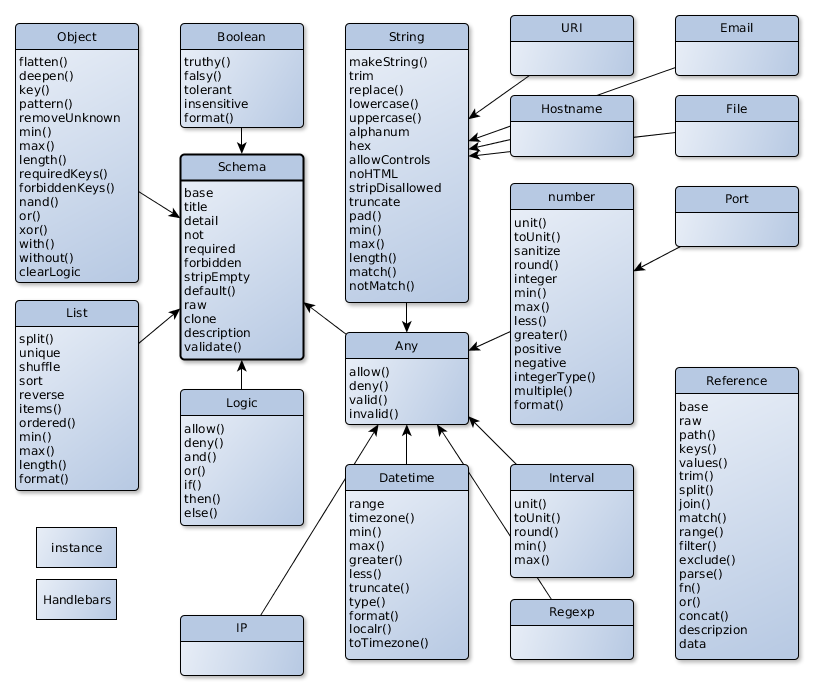
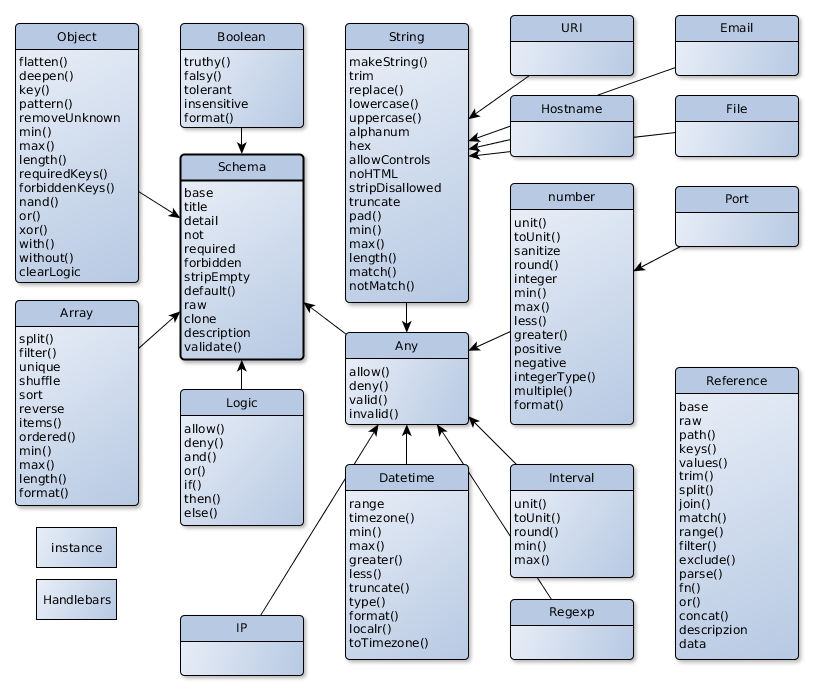
Add array filter method

Changed region(s): [[0.0, 0.4863, 0.1843, 0.7598], [0.0614, 0.4255, 0.1229, 0.4559], [0.1843, 0.4559, 0.215, 0.4863]]

diff --git a/src/type/Array.js b/src/type/Array.js
@@ -16,6 +16,7 @@ class ArraySchema extends Schema {
       this._splitDescriptor,
       this._toArrayDescriptor,
       this._uniqueDescriptor,
+      this._filterDescriptor,
       this._itemsDescriptor,
       this._lengthDescriptor,
       this._sortDescriptor,
@@ -28,6 +29,7 @@ class ArraySchema extends Schema {
       this._toArrayValidator,
       this._typeValidator,
       this._uniqueValidator,
+      this._filterValidator,
       this._itemsValidator,
       this._lengthValidator,
       this._sortValidator,
@@ -142,6 +144,44 @@ as separator.\n`
         }
         c.add(e)
       }
+    }
+    return Promise.resolve()
+  }
+
+  filter(schema?: Schema|bool): this {
+    const set = this._setting
+    if (schema instanceof Schema) set.filter = schema
+    else if (schema === false) delete set.filter
+    else set.filter = true
+    return this
+  }
+
+  _filterDescriptor() {
+    const set = this._setting
+    if (set.filter === true) {
+      return 'Undefined or empty values are removed.\n'
+    }
+    if (set.filter) {
+      return `Elements will be removed if not passing: ${set.filter.description}`
+    }
+    return ''
+  }
+
+  _filterValidator(data: Data): Promise<void> {
+    const check = this._check
+    // check value
+    if (check.filter) {
+      const filter = check.filter === true
+        ? new Schema().stripEmpty().required()
+        : check.filter
+      const p = []
+      for (const v of data.value) {
+        p.push(filter._validate(v).then(() => v).catch(() => null))
+      }
+      return Promise.all(p).then((res) => {
+        data.value = res.filter(e => e)
+        return undefined
+      })
     }
     return Promise.resolve()
   }

diff --git a/test/mocha/type/Array.js b/test/mocha/type/Array.js
@@ -130,9 +130,51 @@ describe('array', () => {
     })
 
     it('should describe', () => {
-      const data = [1, 2, 3, 2]
       const ref = new Reference(true)
       const schema = new MySchema().unique(ref)
+      // use schema
+      expect(helper.description(schema)).to.be.an('string')
+    })
+
+  })
+
+  describe('filter', () => {
+
+    it('should work with empty filter', () => {
+      const data = [1, null, 2, undefined, 3]
+      const schema = new MySchema().filter()
+      // use schema
+      return helper.validateOk(schema, data, (res) => {
+        expect(res).deep.equal([1, 2, 3])
+      })
+    })
+
+    it('should work with schema filter', () => {
+      const data = [1, 'test', 2, [4], 3]
+      const schema = new MySchema().filter(new NumberSchema())
+      // use schema
+      return helper.validateOk(schema, data, (res) => {
+        expect(res).deep.equal([1, 2, 3])
+      })
+    })
+
+    it('should remove setting', () => {
+      const data = [1, null, 2, undefined, 3]
+      const schema = new MySchema().filter().filter(false)
+      // use schema
+      return helper.validateOk(schema, data, (res) => {
+        expect(res).deep.equal(data)
+      })
+    })
+
+    it('should describe with empty filter', () => {
+      const schema = new MySchema().filter()
+      // use schema
+      expect(helper.description(schema)).to.be.an('string')
+    })
+
+    it('should describe with schema filter', () => {
+      const schema = new MySchema().filter(new NumberSchema())
       // use schema
       expect(helper.description(schema)).to.be.an('string')
     })

diff --git a/doc/alternatives/joi.md b/doc/alternatives/joi.md
@@ -65,12 +65,12 @@ alinex-validator.
 | `any.empty(schema)` | `any.stripEmpty()` |
 | `any.error(err)` | - |
 | `array` | `array` |
-| `array.sparse()` | default and can be removed by setting `array.stripEmpty()` |
+| `array.sparse()` | default and can be removed by setting `array.filter()` |
 | `array.single()` | `array.toArray()` |
 | `array.items(schema)` | `array.item(schema)` |
 | `array.items(schema, schema)` | `array.unordered().item(schema).item(schema)` |
 | `array.ordered(schema, schema)` | `array.item(schema).item(schema)` |
-| array min elements | `array.min(limit)` | `array.min(limit)` |
+| `array.min(limit)` | `array.min(limit)` |
 | `array.max(limit)` | `array.max(limit)` |
 | `array.length(limit)` | `array.length(limit)` |
 | `array.unique(comparator)` | `array.unique()` |

diff --git a/doc/schema/array.md b/doc/schema/array.md
@@ -73,6 +73,17 @@ const ref = new Reference(true)
 const schema = new ArraySchema().sanizize(ref).unique(ref)
 ```
 
+### filter(bool) / filter(Schema)
+
+Filter the list of elements to remove all empty elements or all that don't match the given schema
+definition.
+
+```js
+const schema = new ArraySchema().filter() // remove empty elements
+const schema = new ArraySchema().filter(new NumberSchema()) // only numbers are allowed
+schema.filter(false) // to remove the setting
+```
+
 ### shuffle(bool)
 
 All list items will be shuffled to get a random order:

diff --git a/doc/alternatives/alinex-v2.md b/doc/alternatives/alinex-v2.md
@@ -12,7 +12,7 @@ also the few changes below:
 | `and` |  `logic.allow(schema1).and(schema2)` |
 | `any` | `any` |
 | `array` | `array` |
-| `array.notEmpty=true` | - |
+| `array.notEmpty=true` | `array.filter()` |
 | `array.minLength=length` | `array.min(length)` |
 | `array.maxLength=length` | `array.max(length)` |
 | `array.toArray=true` | `array.toArray()` |

diff --git a/doc/ideas.md b/doc/ideas.md
@@ -12,11 +12,6 @@ Reference
 - SFTP as reference base
 - SSH as reference base
 
-Array
-- array.filter(any().stripEmpty().required()) // (v2 noEmpty)
-- array.filter(schema).sanitize() fail or remove all which not validate
-- array.exclude(schema).sanitize() fail or remove all which validate
-
 Object
 - move() change key name (Joi rename)
 - copy()
